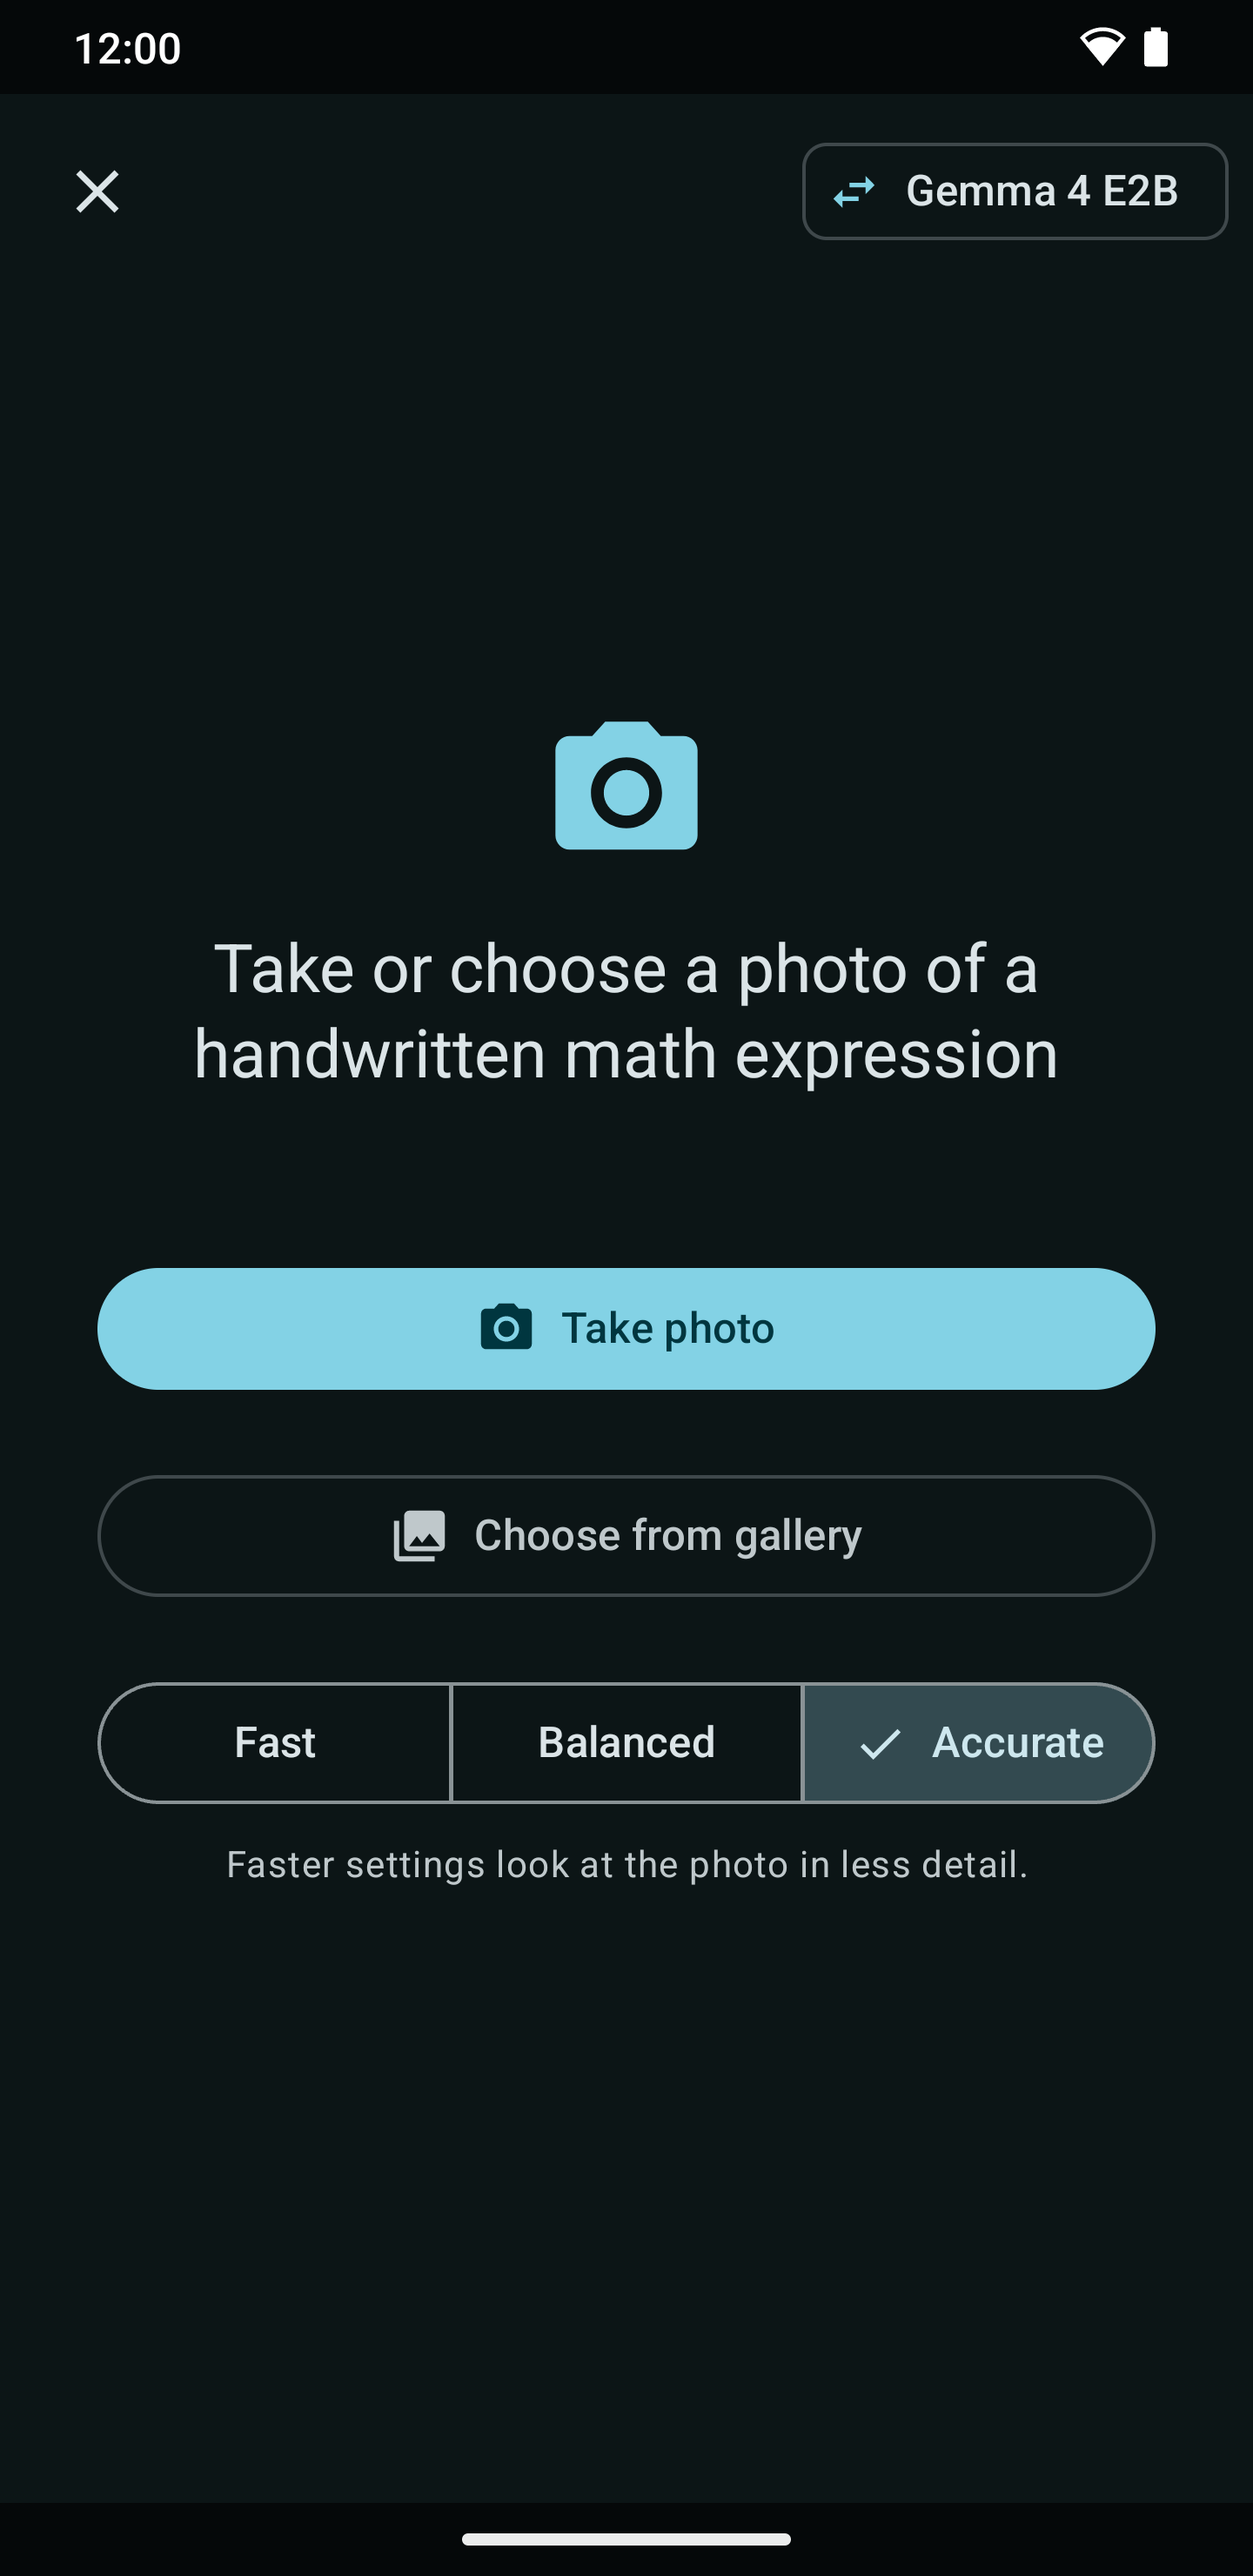
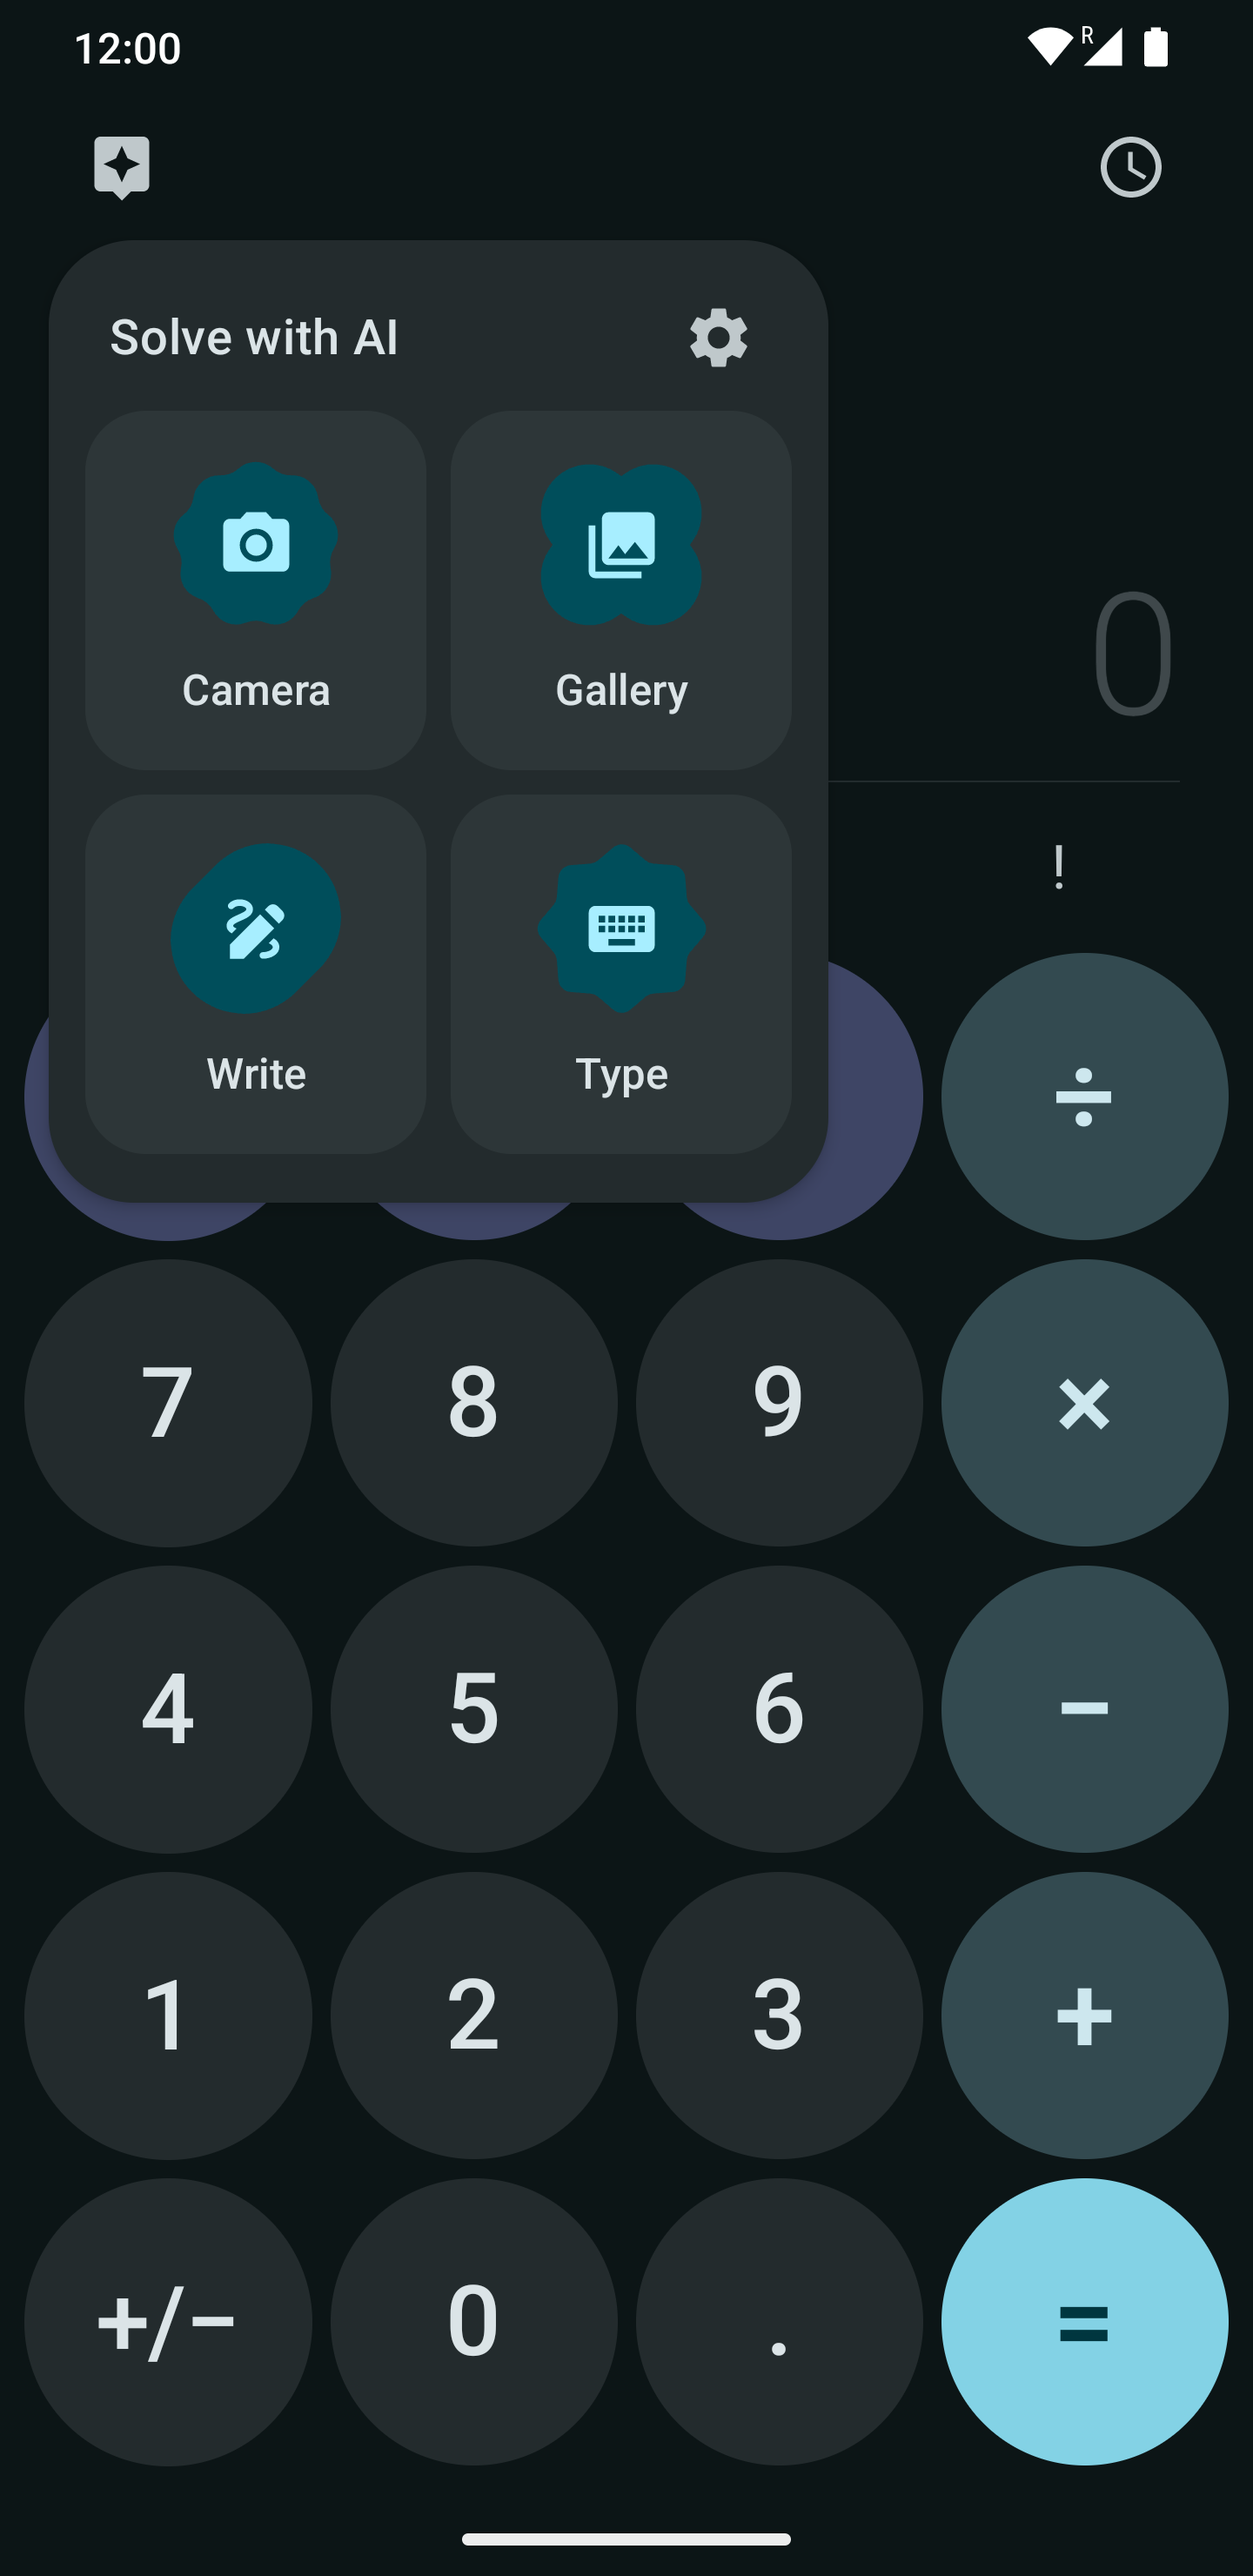
Screenshots: six new AI screens for the README and the store (#132)
Replaces the three outdated AI screenshots with six from the current app (AI menu, handwriting pad, step-by-step answer, follow-up question, AI history, AI settings), and shows them in the README as two rows of three.

diff --git a/README.md b/README.md
@@ -35,9 +35,14 @@
 
   <table>
     <tr>
-      <td align="center"><img src="metadata/en-US/images/phoneScreenshots/7.png" width="180" alt="AI Math Solver scan"><br><sub>AI Math Solver</sub></td>
-      <td align="center"><img src="metadata/en-US/images/phoneScreenshots/8.png" width="180" alt="On-device AI models"><br><sub>On-Device Models</sub></td>
-      <td align="center"><img src="metadata/en-US/images/phoneScreenshots/9.png" width="180" alt="AI solved on-device"><br><sub>Solved On-Device</sub></td>
+      <td align="center"><img src="metadata/en-US/images/phoneScreenshots/7.png" width="180" alt="Solve with AI menu: Camera, Gallery, Write, Type"><br><sub>Solve with AI</sub></td>
+      <td align="center"><img src="metadata/en-US/images/phoneScreenshots/8.png" width="180" alt="Handwriting pad with 8×6−9 written on it"><br><sub>Write It by Hand</sub></td>
+      <td align="center"><img src="metadata/en-US/images/phoneScreenshots/9.png" width="180" alt="Step-by-step answer 39 to the handwritten problem"><br><sub>Step-by-Step Answers</sub></td>
+    </tr>
+    <tr>
+      <td align="center"><img src="metadata/en-US/images/phoneScreenshots/10.png" width="180" alt="Typed word problem answered, with a follow-up question"><br><sub>Ask Follow-up Questions</sub></td>
+      <td align="center"><img src="metadata/en-US/images/phoneScreenshots/11.png" width="180" alt="AI history with saved answers"><br><sub>AI History</sub></td>
+      <td align="center"><img src="metadata/en-US/images/phoneScreenshots/12.png" width="180" alt="AI settings with the recommended on-device model"><br><sub>On-Device Models</sub></td>
     </tr>
   </table>
 
